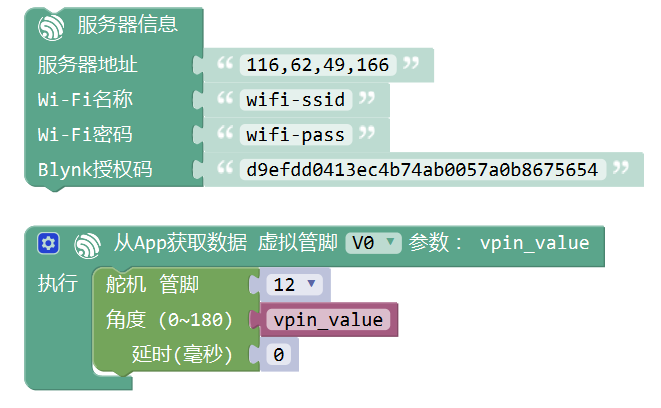
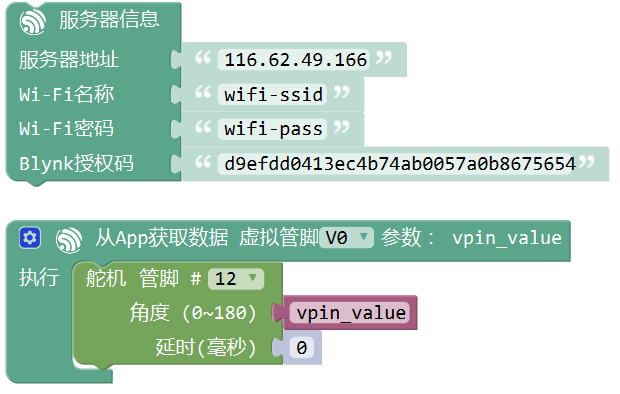
1

Changed region(s): [[0.0, 0.5482, 0.9194, 0.9746], [0.0, 0.0, 0.9806, 0.4873]]

diff --git a/doc/source/ESP8266/03.Smartconfig.rst b/doc/source/ESP8266/03.Smartconfig.rst
@@ -55,7 +55,7 @@
 
 * 服务器地址：
 	* Blynk官方地址:blynk-cloud.com;
-	* Blynk国内服务器地址：116,62,49,166;
+	* Blynk国内服务器地址：116.62.49.166;
 	* 也可以使用您自己的本地服务器
 * Blynk授权码：通过Blynk App内创建项目而产生的唯一授权码, `产生授权码 <01.Prepare.html#id3>`_。
 

diff --git a/doc/source/ESP8266/02.Server_info.rst b/doc/source/ESP8266/02.Server_info.rst
@@ -40,7 +40,7 @@
 
 * 服务器地址：
 	* Blynk官方地址:blynk-cloud.com;
-	* Blynk国内服务器地址：116,62,49,166;
+	* Blynk国内服务器地址：116.62.49.166;
 	* 也可以使用您自己的本地服务器
 * Wi-Fi名称:开发板需要连接的Wi-Fi名称。
 * Wi-Fi密码:开发板需要连接的Wi-Fi的密码。
